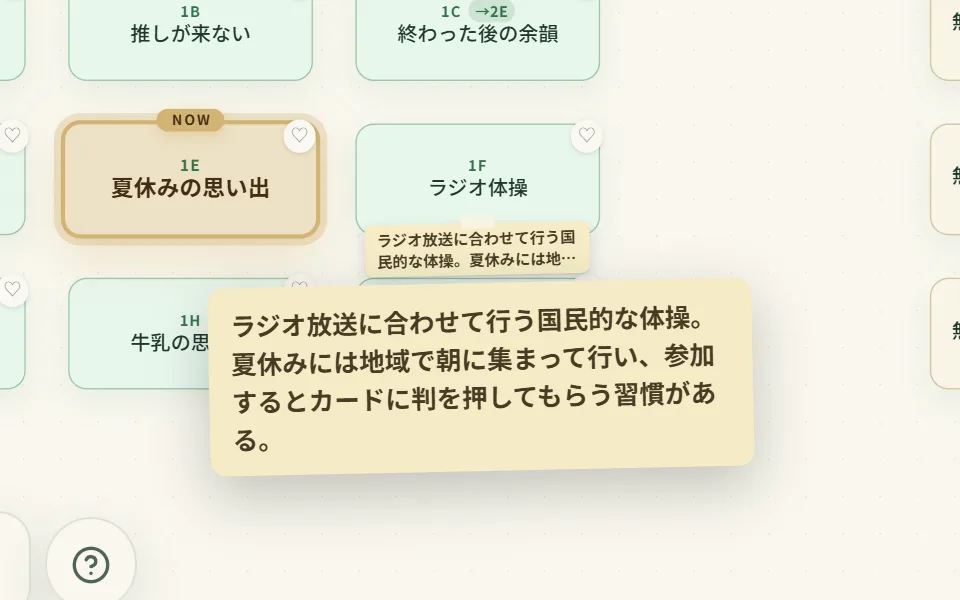
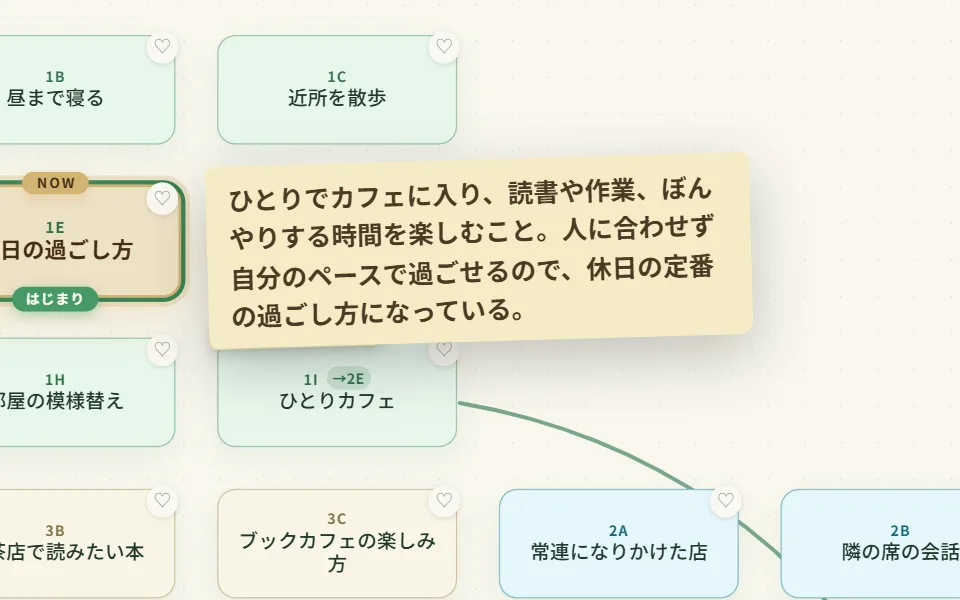
できることの1枚目（ホームの見出しと同じ画面）を外し、画像を「休日の過ごし方」の見本で撮り直す
- 撮影スクリプトで AI・図鑑の返事を手書きの見本で返し、毎回同じ・話題として筋の通った語で撮れるようにする（キー無しの定型候補が写っていた）
- 掛け合わせの画像では上の NOW の帯を隠す。メニューの画像は今の文言（今の話題にする）で撮り直し
- AGENTS.md の入口表に公開する文のフィルタを足す

diff --git a/src/components/usage-gallery.tsx b/src/components/usage-gallery.tsx
@@ -9,14 +9,10 @@ const base = process.env.NEXT_PUBLIC_BASE_PATH ?? "";
 
 /**
  * できること（操作の説明はしない。触れば分かるので）。
+ * お題を入れるところはホームの見出しと同じ画面なので載せず、始めたあとに起きることだけ見せる。
  * 画像は scripts/capture-guide.mjs で撮り直せる（public/guide/）
  */
 export const USAGE_STEPS = [
-  {
-    image: "start",
-    title: "お題を1つ入れるだけ",
-    body: "話したいことを入れるか、おすすめのお題から選びます。",
-  },
   {
     image: "expand",
     title: "話題が 8 方向に広がる",
